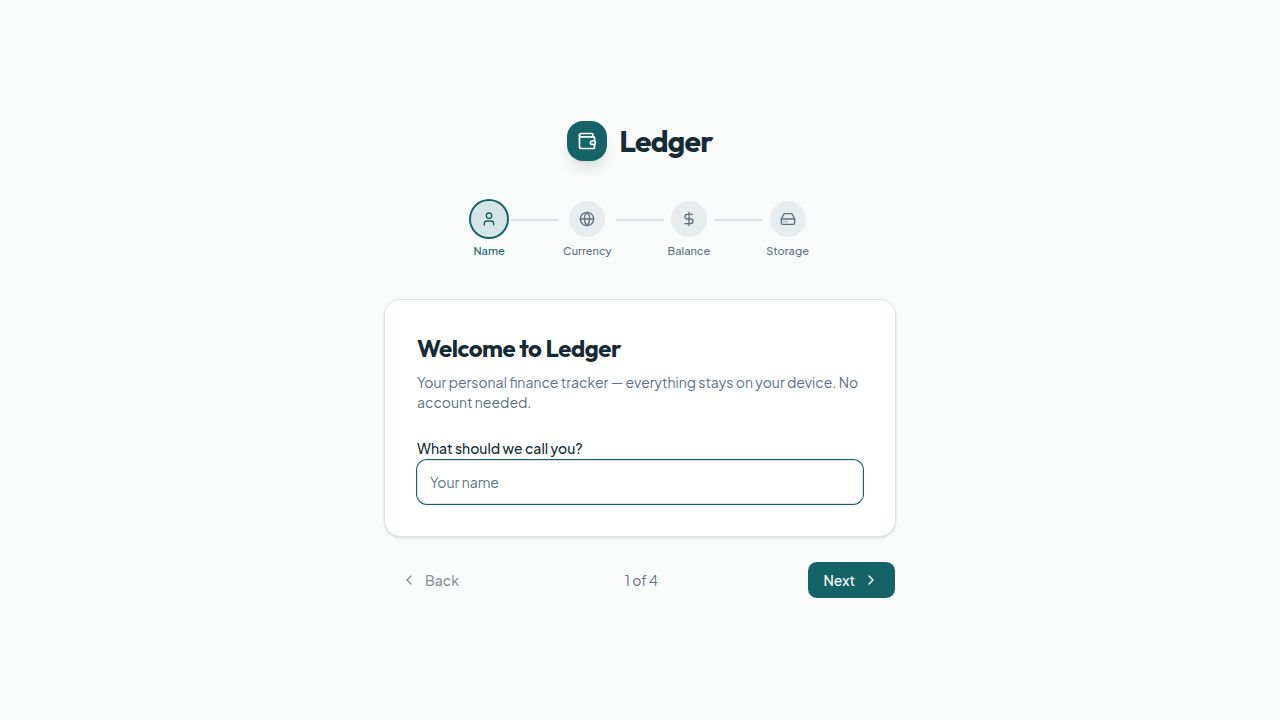
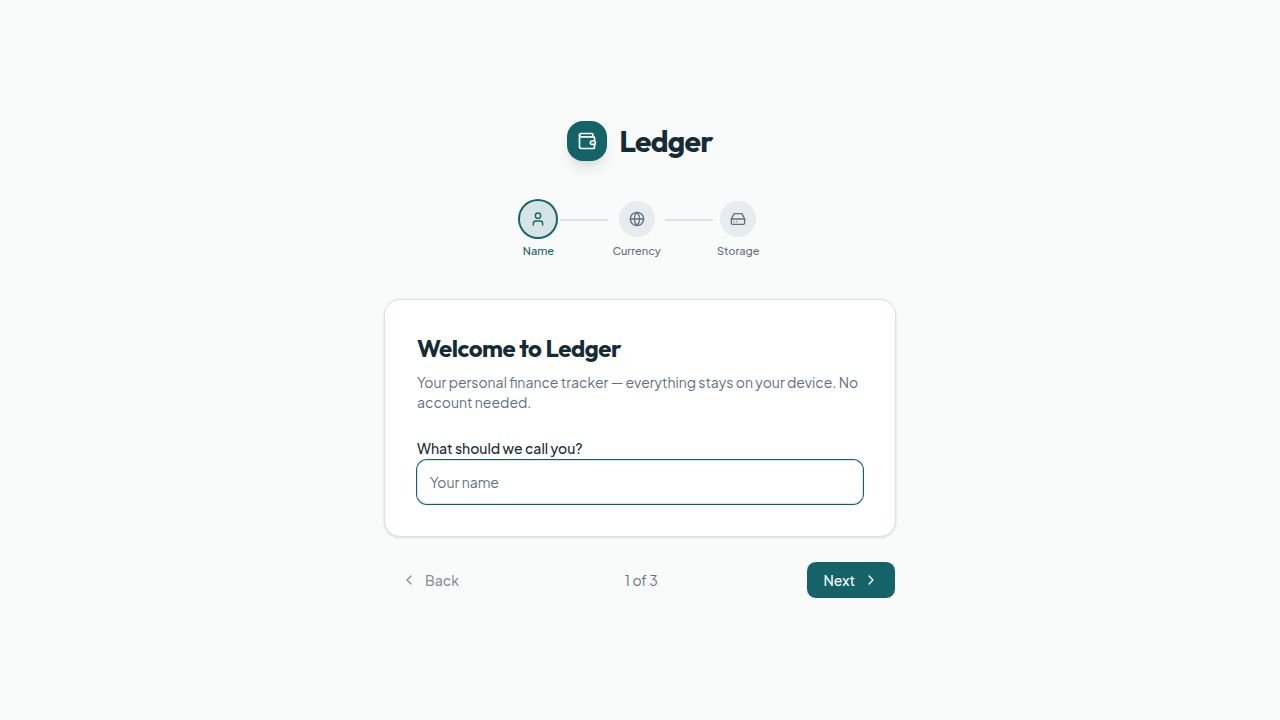
Remove quick add feature and balance from onboarding flow
Removes the Quick Add form from the Dashboard and the Starting Balance step from the onboarding process in `Dashboard.tsx` and `Onboarding.tsx`.

Replit-Commit-Author: Agent
Replit-Commit-Session-Id: de6da7aa-8a33-4b5a-a644-dd325f1f6b57
Replit-Commit-Checkpoint-Type: full_checkpoint
Replit-Commit-Event-Id: 77233a1f-e0fa-425d-b177-478f3af174e5
Replit-Commit-Screenshot-Url: https://storage.googleapis.com/screenshot-production-us-central1/680b808f-b4a0-4dc0-84e3-b2ccb2c32947/de6da7aa-8a33-4b5a-a644-dd325f1f6b57/1jUW4P2
Replit-Helium-Checkpoint-Created: true

Changed region(s): [[0.3438, 0.275, 0.625, 0.3667], [0.5625, 0.275, 0.625, 0.3056]]

diff --git a/artifacts/expense-tracker/src/pages/Dashboard.tsx b/artifacts/expense-tracker/src/pages/Dashboard.tsx
@@ -1,35 +1,21 @@
-import { useState } from "react";
 import { Link } from "wouter";
 import {
   ArrowUpRight,
   ArrowDownRight,
   Wallet,
-  PlusCircle,
   PieChart as PieChartIcon,
 } from "lucide-react";
-import { useForm } from "react-hook-form";
-import { zodResolver } from "@hookform/resolvers/zod";
-import * as z from "zod";
 import { formatCurrency } from "@/lib/formatters";
 import { useStore } from "@/hooks/use-store";
-import type { Category } from "@/hooks/use-store";
 import { useSettings } from "@/hooks/use-settings";
 import { TransactionRow } from "@/components/TransactionRow";
 import { Button } from "@/components/ui/button";
 import { Card, CardContent, CardHeader, CardTitle } from "@/components/ui/card";
-import { Input } from "@/components/ui/input";
-import {
-  Select,
-  SelectContent,
-  SelectItem,
-  SelectTrigger,
-  SelectValue,
-} from "@/components/ui/select";
-import { Form, FormControl, FormField, FormItem, FormMessage } from "@/components/ui/form";
 import { useToast } from "@/hooks/use-toast";
 import { ResponsiveContainer, PieChart, Pie, Cell, Tooltip } from "recharts";
-import { CATEGORIES, getCategoryColor } from "@/lib/categories";
+import { getCategoryColor } from "@/lib/categories";
 import { cn } from "@/lib/utils";
+import type { Category } from "@/hooks/use-store";
 
 const getHexColor = (colorClass: string) => {
   const map: Record<string, string> = {
@@ -44,46 +30,13 @@ const getHexColor = (colorClass: string) => {
   return map[colorClass] || "#64748b";
 };
 
-const quickSchema = z.object({
-  amount: z.coerce.number().positive("Enter an amount"),
-  type: z.enum(["expense", "income"]),
-  category: z.string().min(1, "Pick a category"),
-  note: z.string().optional(),
-  date: z.string().min(1),
-});
-type QuickForm = z.infer<typeof quickSchema>;
-
 export default function Dashboard() {
-  const { data, addTransaction, updateTransaction, deleteTransaction } = useStore();
+  const { data, updateTransaction, deleteTransaction } = useStore();
   const { settings } = useSettings();
   const { toast } = useToast();
   const currency = settings.currency;
-  const currencySymbol = settings.currencySymbol || "$";
 
   const currentMonth = new Date().toISOString().slice(0, 7);
-  const today = new Date().toISOString().slice(0, 10);
-
-  const form = useForm<QuickForm>({
-    resolver: zodResolver(quickSchema),
-    defaultValues: { amount: 0, type: "expense", category: "", note: "", date: today },
-  });
-
-  const watchType = form.watch("type");
-  const availableCategories = Object.values(CATEGORIES).filter(
-    (c) => c.type === "both" || c.type === watchType
-  );
-
-  const handleQuickAdd = async (values: QuickForm) => {
-    await addTransaction({
-      amount: values.amount,
-      type: values.type,
-      category: values.category as Category,
-      note: values.note ?? "",
-      date: new Date(values.date).toISOString(),
-    });
-    toast({ title: values.type === "expense" ? "Expense added" : "Income added" });
-    form.reset({ amount: 0, type: values.type, category: "", note: "", date: today });
-  };
 
   const currentMonthTxs = data.transactions.filter((t) => t.date.startsWith(currentMonth));
   const allIncome = data.transactions.filter((t) => t.type === "income").reduce((s, t) => s + t.amount, 0);
@@ -182,136 +135,6 @@ export default function Dashboard() {
         </Card>
       </div>
 
-      {/* Quick add */}
-      <Card className="bg-card shadow-sm border-none ring-1 ring-border">
-        <CardHeader className="pb-3 pt-5 px-6">
-          <CardTitle className="text-base font-semibold flex items-center gap-2">
-            <PlusCircle className="w-4 h-4 text-primary" />
-            Quick add
-          </CardTitle>
-        </CardHeader>
-        <CardContent className="px-6 pb-6">
-          <Form {...form}>
-            <form onSubmit={form.handleSubmit(handleQuickAdd)} className="space-y-3">
-              {/* Type toggle */}
-              <FormField
-                control={form.control}
-                name="type"
-                render={({ field }) => (
-                  <div className="flex p-1 bg-muted rounded-lg w-full" data-testid="quick-type-toggle">
-                    {(["expense", "income"] as const).map((t) => (
-                      <button
-                        key={t}
-                        type="button"
-                        onClick={() => { field.onChange(t); form.setValue("category", ""); }}
-                        className={cn(
-                          "flex-1 py-1.5 px-3 rounded-md text-sm font-medium transition-all capitalize",
-                          field.value === t
-                            ? "bg-background shadow-sm text-foreground"
-                            : "text-muted-foreground hover:text-foreground"
-                        )}
-                      >
-                        {t}
-                      </button>
-                    ))}
-                  </div>
-                )}
-              />
-
-              <div className="grid grid-cols-2 gap-2 sm:grid-cols-4">
-                {/* Amount */}
-                <FormField
-                  control={form.control}
-                  name="amount"
-                  render={({ field }) => (
-                    <FormItem className="col-span-1">
-                      <FormControl>
-                        <div className="relative">
-                          <span className="absolute left-3 top-1/2 -translate-y-1/2 text-muted-foreground text-sm">{currencySymbol}</span>
-                          <Input
-                            type="number"
-                            step="0.01"
-                            min="0"
-                            placeholder="0.00"
-                            className="pl-7 h-9 text-sm"
-                            {...field}
-                            data-testid="quick-amount"
-                          />
-                        </div>
-                      </FormControl>
-                      <FormMessage className="text-xs" />
-                    </FormItem>
-                  )}
-                />
-
-                {/* Category */}
-                <FormField
-                  control={form.control}
-                  name="category"
-                  render={({ field }) => (
-                    <FormItem className="col-span-1">
-                      <Select onValueChange={field.onChange} value={field.value}>
-                        <FormControl>
-                          <SelectTrigger className="h-9 text-sm" data-testid="quick-category">
-                            <SelectValue placeholder="Category" />
-                          </SelectTrigger>
-                        </FormControl>
-                        <SelectContent>
-                          {availableCategories.map((cat) => (
-                            <SelectItem key={cat.id} value={cat.id}>
-                              <div className="flex items-center gap-2">
-                                <cat.icon className={cn("w-3.5 h-3.5", cat.color)} />
-                                {cat.id}
-                              </div>
-                            </SelectItem>
-                          ))}
-                        </SelectContent>
-                      </Select>
-                      <FormMessage className="text-xs" />
-                    </FormItem>
-                  )}
-                />
-
-                {/* Note */}
-                <FormField
-                  control={form.control}
-                  name="note"
-                  render={({ field }) => (
-                    <FormItem className="col-span-2 sm:col-span-1">
-                      <FormControl>
-                        <Input
-                          placeholder="Note (optional)"
-                          className="h-9 text-sm"
-                          {...field}
-                          data-testid="quick-note"
-                        />
-                      </FormControl>
-                    </FormItem>
-                  )}
-                />
-
-                {/* Date */}
-                <FormField
-                  control={form.control}
-                  name="date"
-                  render={({ field }) => (
-                    <FormItem className="col-span-2 sm:col-span-1">
-                      <FormControl>
-                        <Input type="date" className="h-9 text-sm" {...field} data-testid="quick-date" />
-                      </FormControl>
-                    </FormItem>
-                  )}
-                />
-              </div>
-
-              <Button type="submit" className="w-full h-9" data-testid="quick-submit">
-                Add entry
-              </Button>
-            </form>
-          </Form>
-        </CardContent>
-      </Card>
-
       {/* Recent + chart */}
       <div className="grid gap-6 grid-cols-1 lg:grid-cols-3">
         <div className="lg:col-span-2 space-y-4">
@@ -336,7 +159,7 @@ export default function Dashboard() {
               ))
             ) : (
               <div className="p-8 text-center text-muted-foreground">
-                <p className="text-sm">No transactions yet — use the quick add above.</p>
+                <p className="text-sm">No transactions yet — add one from the Transactions page.</p>
               </div>
             )}
           </div>

diff --git a/artifacts/expense-tracker/src/pages/Onboarding.tsx b/artifacts/expense-tracker/src/pages/Onboarding.tsx
@@ -6,7 +6,6 @@ import {
   Wallet,
   User,
   Globe,
-  DollarSign,
   HardDrive,
   FolderOpen,
   Database,
@@ -26,14 +25,13 @@ export default function Onboarding({ onComplete }: OnboardingProps) {
   const { completeOnboarding } = useSettings();
   const hasFS = supportsFileSystem();
 
-  const totalSteps = hasFS ? 4 : 3;
+  const totalSteps = hasFS ? 3 : 2;
 
   const [step, setStep] = useState(1);
   const [name, setName] = useState("");
   const [nameError, setNameError] = useState("");
   const [currency, setCurrency] = useState("USD");
   const [currencySearch, setCurrencySearch] = useState("");
-  const [startingBalance, setStartingBalance] = useState("");
   const [storageChoice, setStorageChoice] = useState<"localStorage" | "filesystem">("localStorage");
   const [isPickingFile, setIsPickingFile] = useState(false);
 
@@ -49,8 +47,7 @@ export default function Onboarding({ onComplete }: OnboardingProps) {
   const STEPS = [
     { id: 1, label: "Name", icon: User },
     { id: 2, label: "Currency", icon: Globe },
-    { id: 3, label: "Balance", icon: DollarSign },
-    ...(hasFS ? [{ id: 4, label: "Storage", icon: HardDrive }] : []),
+    ...(hasFS ? [{ id: 3, label: "Storage", icon: HardDrive }] : []),
   ];
 
   const handleNext = () => {
@@ -76,7 +73,6 @@ export default function Onboarding({ onComplete }: OnboardingProps) {
       const ok = await initFileStorage();
       setIsPickingFile(false);
       if (!ok) {
-        // user cancelled the file picker – fall back
         finalStorage = "localStorage";
       }
     }
@@ -85,7 +81,7 @@ export default function Onboarding({ onComplete }: OnboardingProps) {
       name: name.trim(),
       currency: selectedCurrency.code,
       currencySymbol: selectedCurrency.symbol,
-      startingBalance: startingBalance ? parseFloat(startingBalance) : 0,
+      startingBalance: 0,
       storageType: finalStorage,
     };
     completeOnboarding(data);
@@ -219,52 +215,8 @@ export default function Onboarding({ onComplete }: OnboardingProps) {
             </div>
           )}
 
-          {/* Step 3 – Starting balance */}
-          {step === 3 && (
-            <div className="space-y-6">
-              <div>
-                <h2 className="text-2xl font-display font-bold text-foreground">Starting balance</h2>
-                <p className="text-muted-foreground mt-1 text-sm">
-                  Enter what you currently have — your wallet, bank account, or savings. Skip it and start at zero.
-                </p>
-              </div>
-              <div className="space-y-2">
-                <label className="text-sm font-medium text-foreground">
-                  Current balance ({selectedCurrency.code})
-                </label>
-                <div className="relative">
-                  <span className="absolute left-3.5 top-1/2 -translate-y-1/2 text-muted-foreground font-medium">
-                    {selectedCurrency.symbol}
-                  </span>
-                  <Input
-                    type="number"
-                    min="0"
-                    step="0.01"
-                    placeholder="0.00"
-                    value={startingBalance}
-                    onChange={(e) => setStartingBalance(e.target.value)}
-                    onKeyDown={(e) => e.key === "Enter" && handleNext()}
-                    className="pl-9 h-11 text-base"
-                    autoFocus
-                    data-testid="input-starting-balance"
-                  />
-                </div>
-                <p className="text-xs text-muted-foreground">
-                  Optional — you can update this anytime. Income and expenses you add will adjust your balance from here.
-                </p>
-              </div>
-              {startingBalance && parseFloat(startingBalance) > 0 && (
-                <div className="bg-primary/5 border border-primary/20 rounded-xl p-4">
-                  <p className="text-sm text-primary font-medium">
-                    Starting with {selectedCurrency.symbol}{parseFloat(startingBalance).toLocaleString()} {selectedCurrency.code}
-                  </p>
-                </div>
-              )}
-            </div>
-          )}
-
-          {/* Step 4 – Storage (only if File System API available) */}
-          {step === 4 && hasFS && (
+          {/* Step 3 – Storage (only if File System API available) */}
+          {step === 3 && hasFS && (
             <div className="space-y-5">
               <div>
                 <h2 className="text-2xl font-display font-bold text-foreground">Where to save your data</h2>